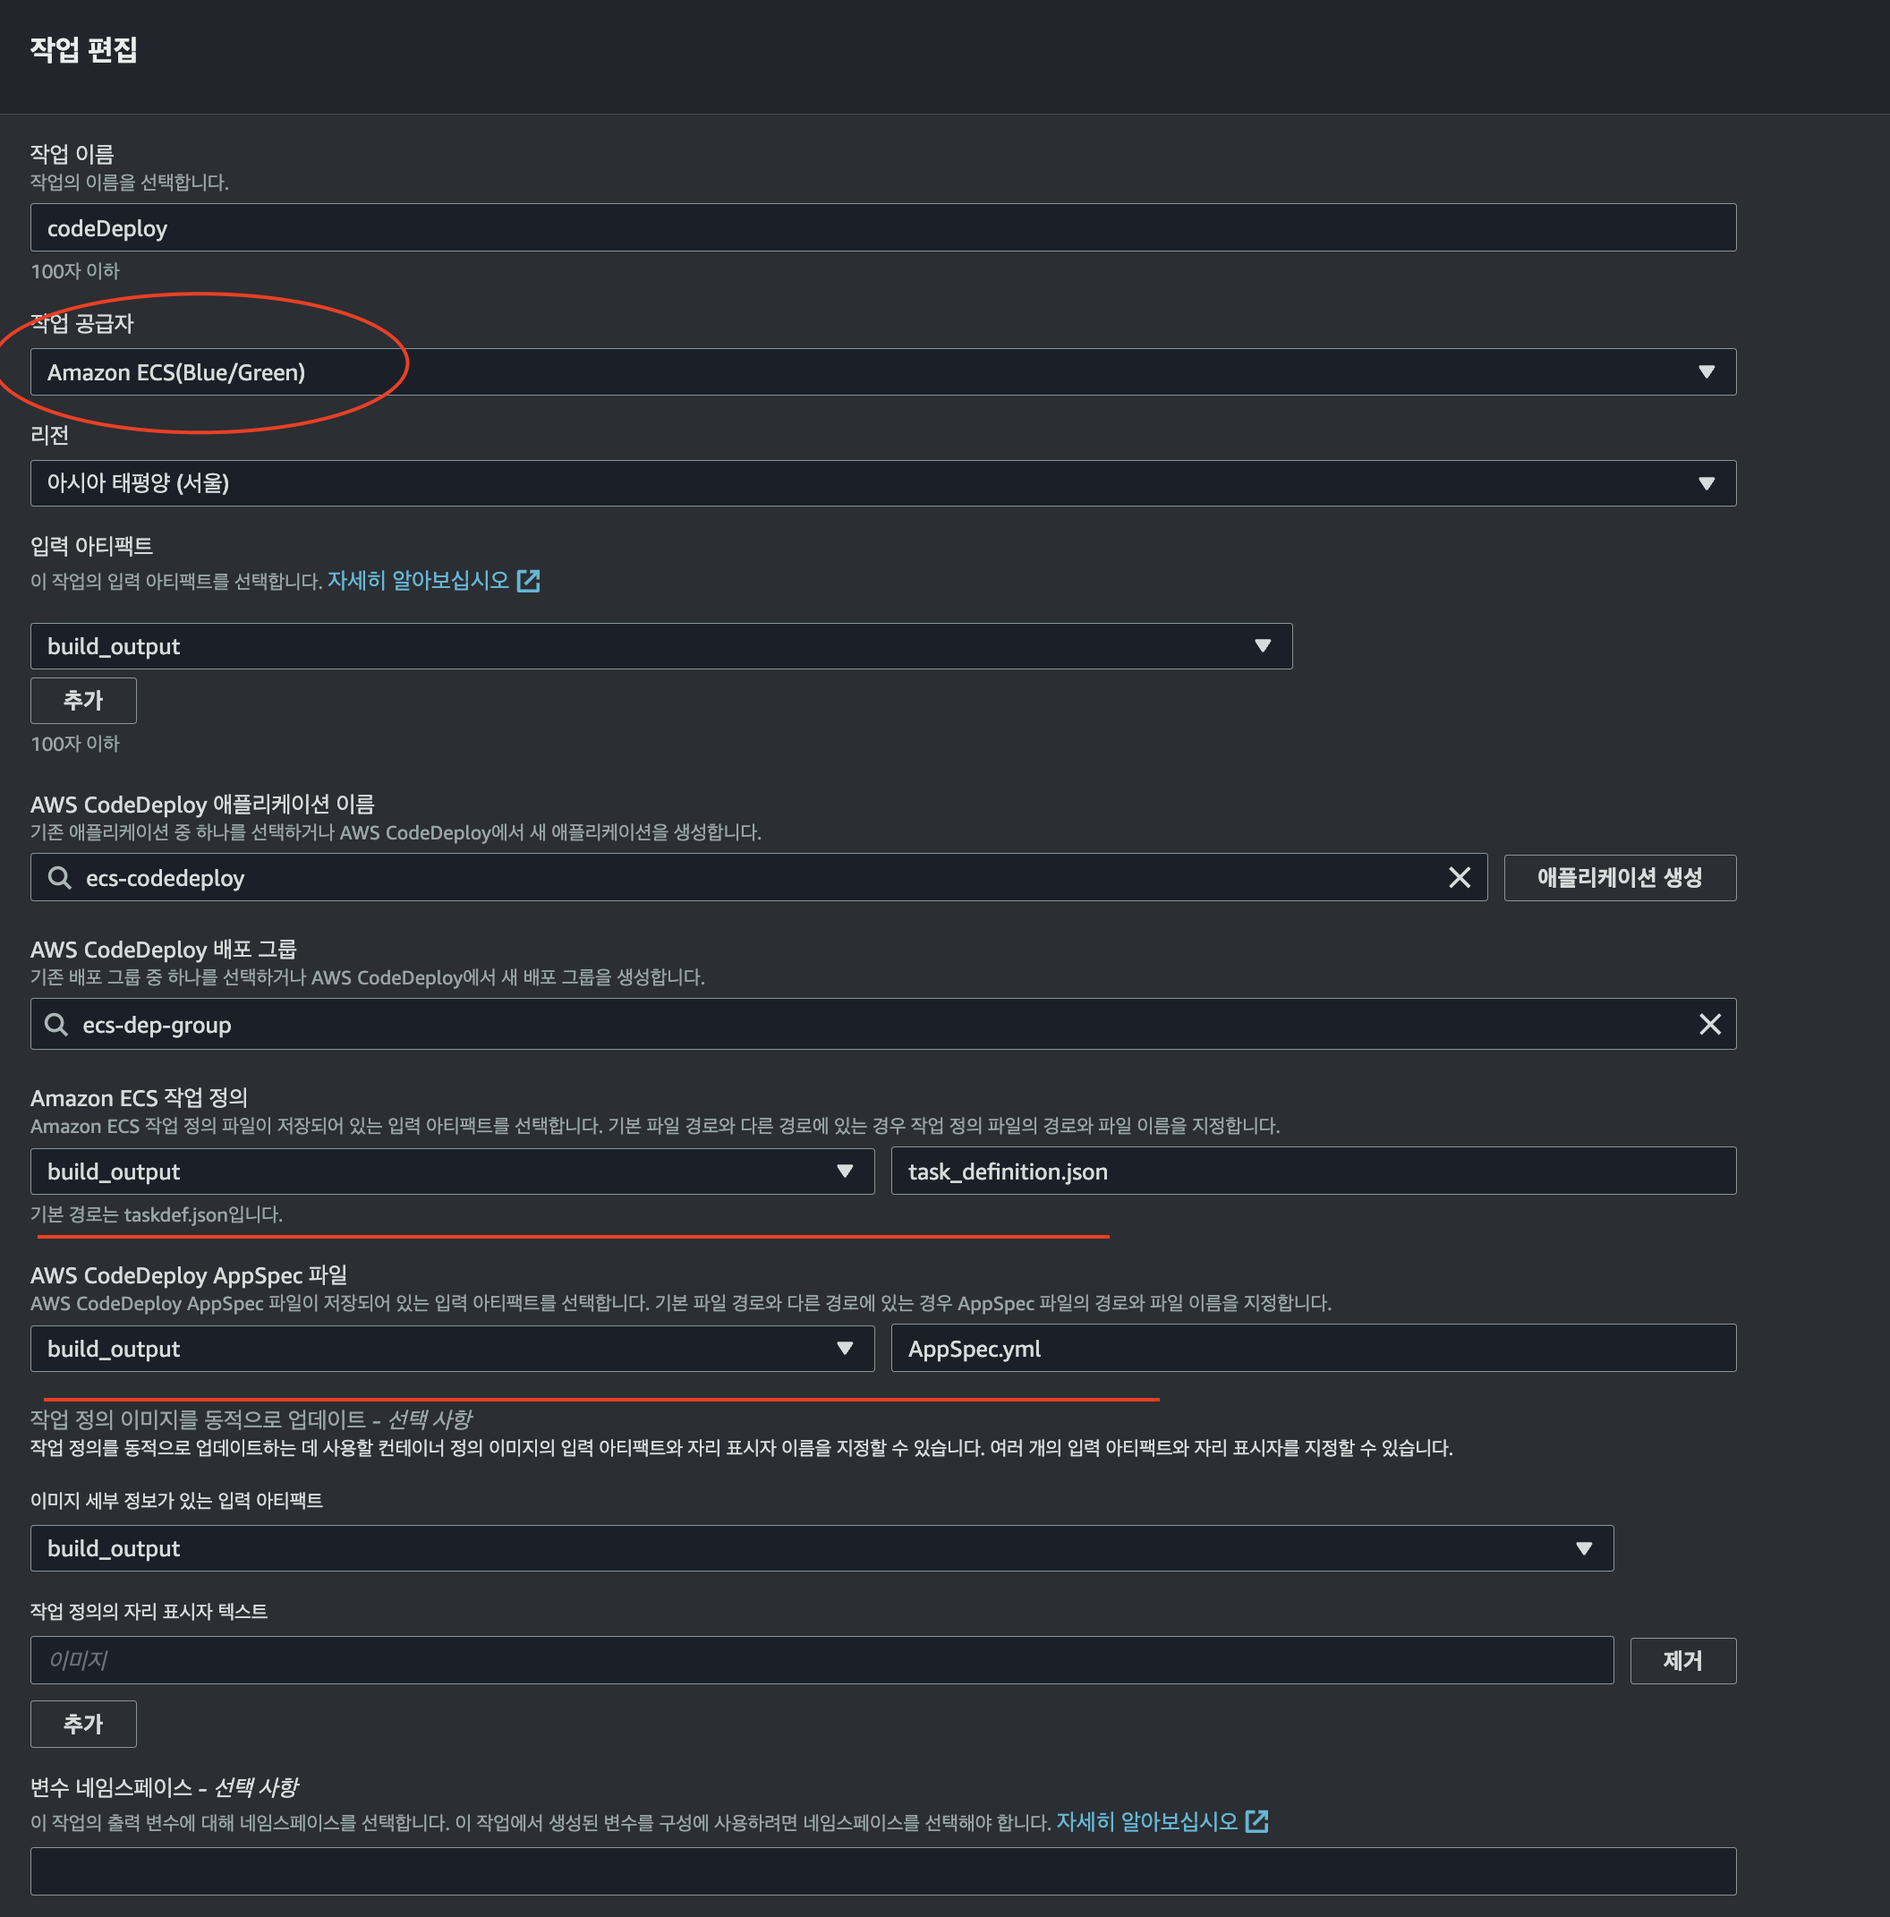
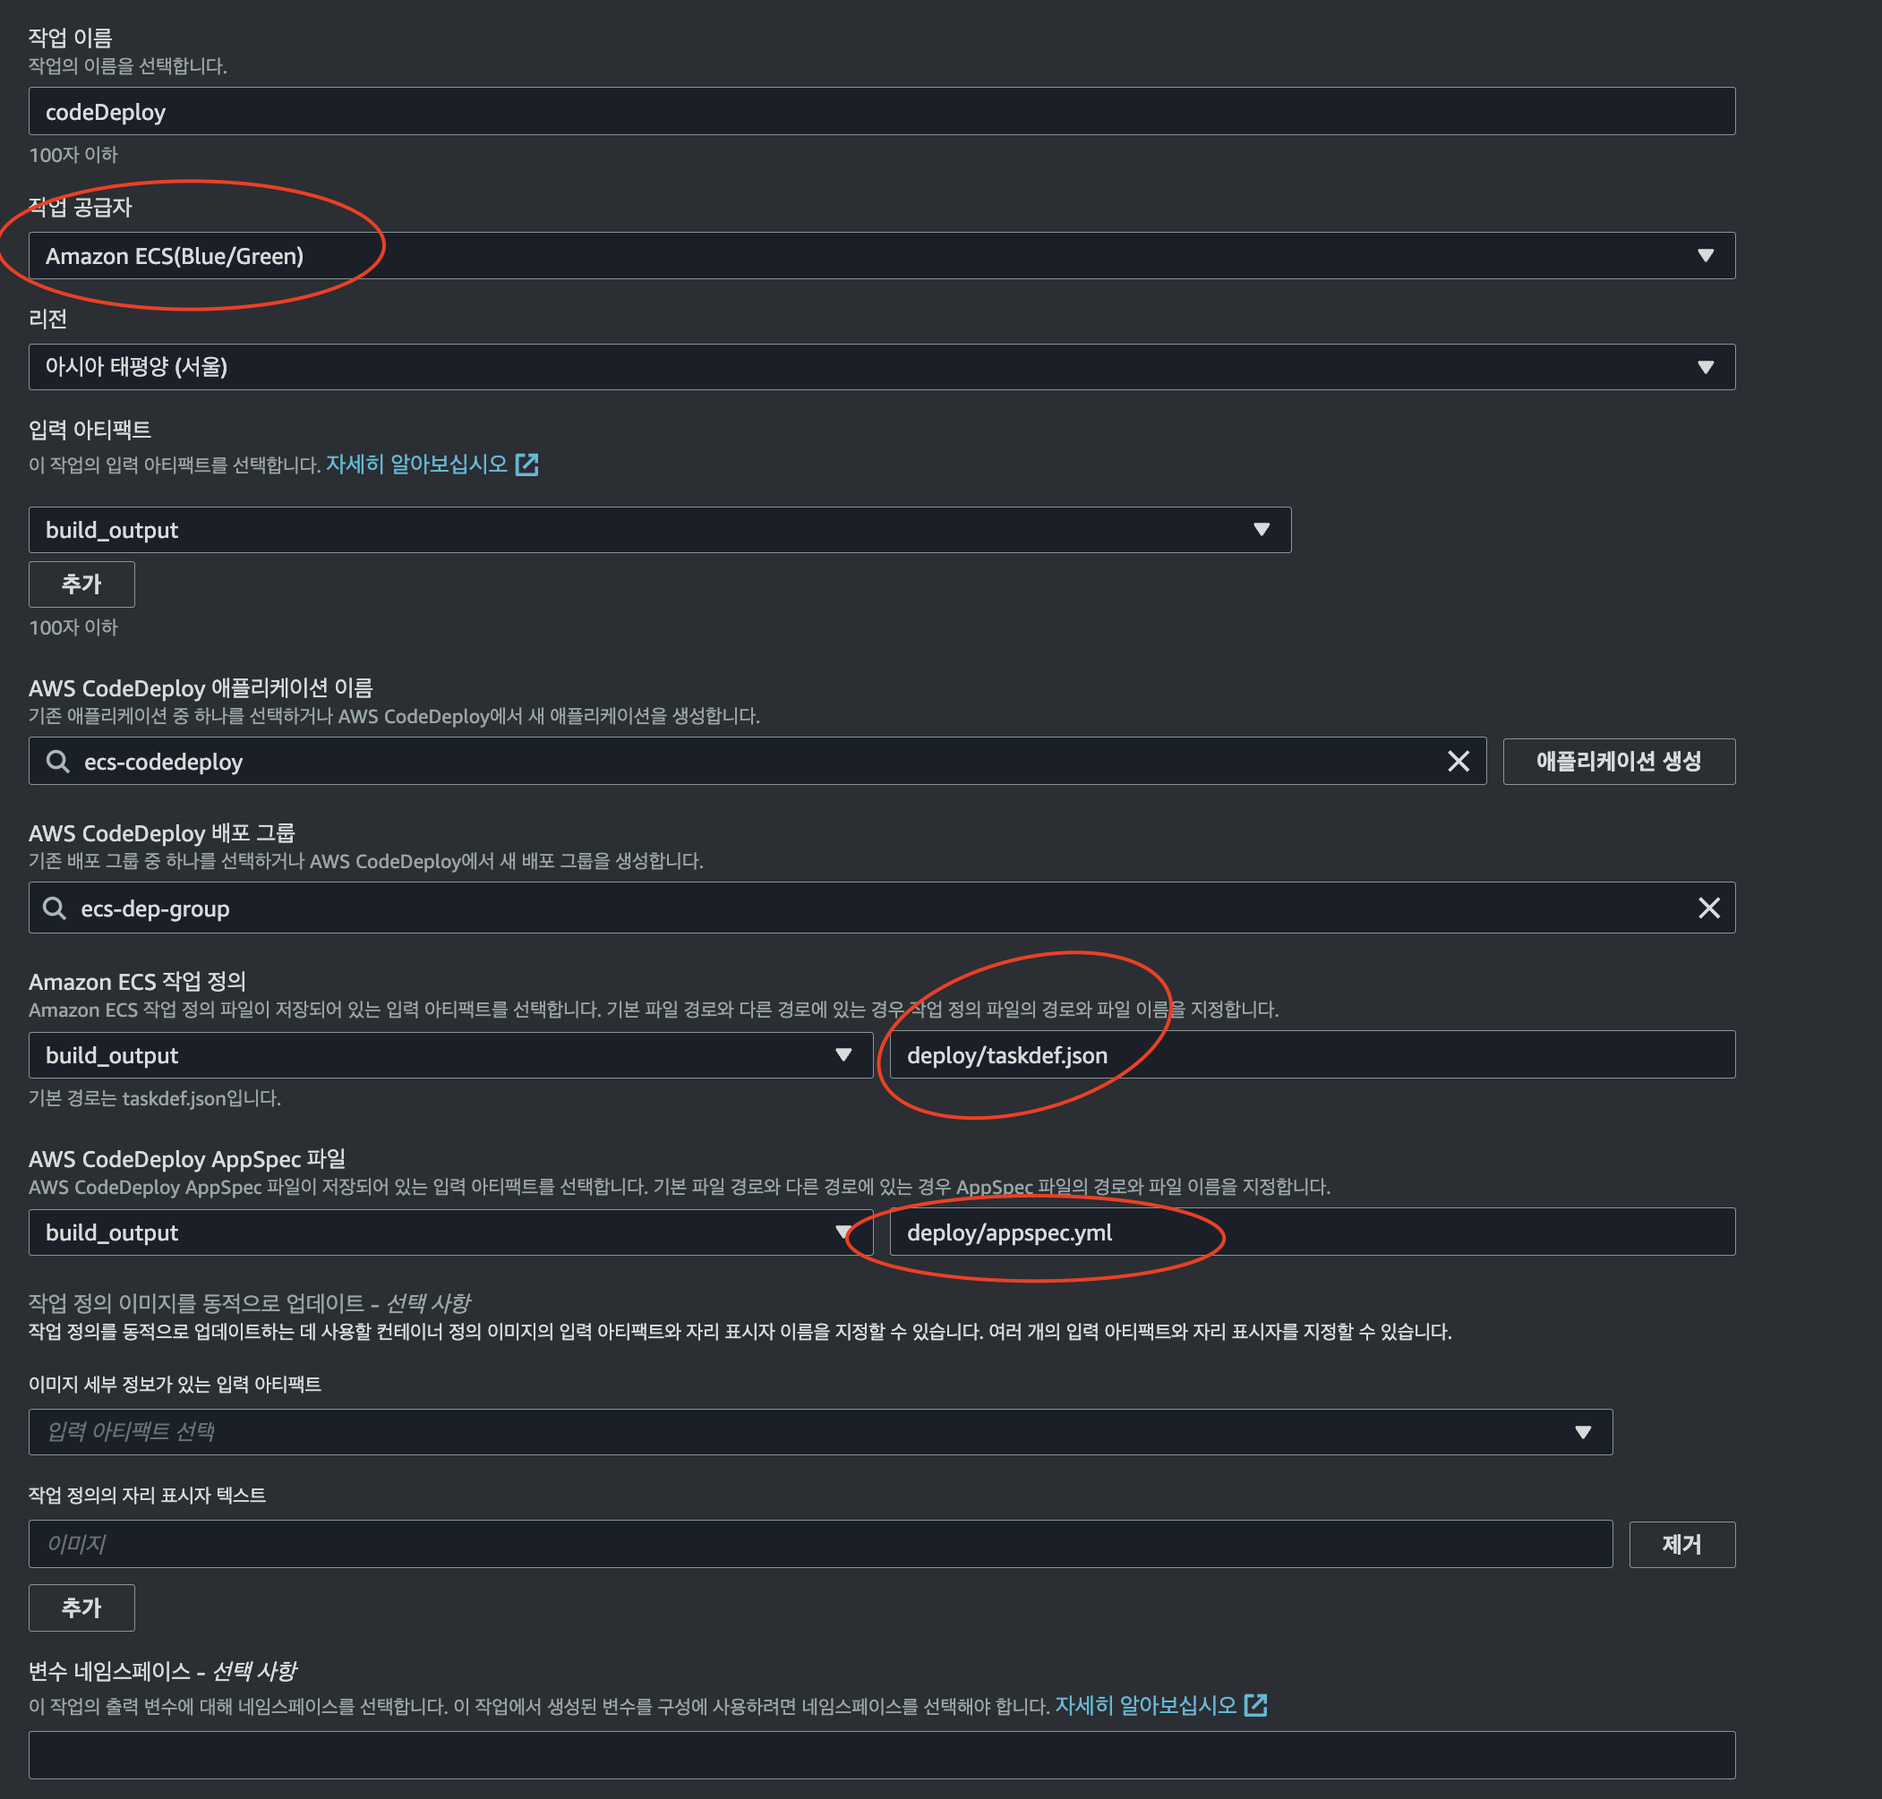
Update appspec.yml file

diff --git a/README.md b/README.md
@@ -89,6 +89,7 @@
     - deploy 폴더안에 task_definition.json, AppSpec.yml 을 위치해야 Build Artifacts를 통해서 CodeDeploy가 배포됨
     - <b>BuildArtifacts에 구성파일만 존재하면 CodeDeploy는 쉽게 진행됨</b>
     - CodeDeploy가 아닌 ECS (Blue/Green) 으로 구성해야 함 (in CodePipeline)
+    - 폴더지정 제대로 하자 에러 많이 남
 
     ```yml
     ...
